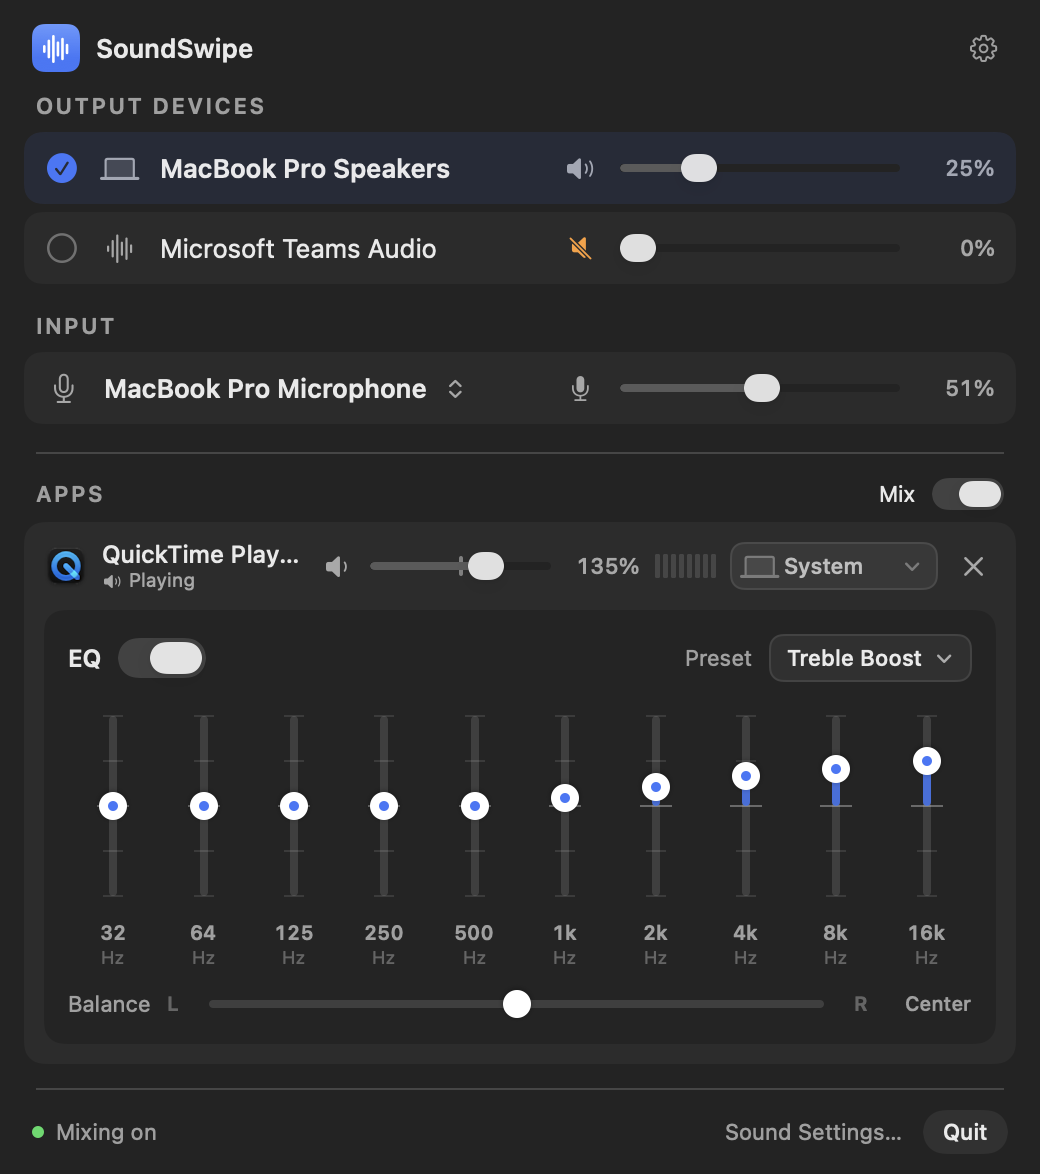
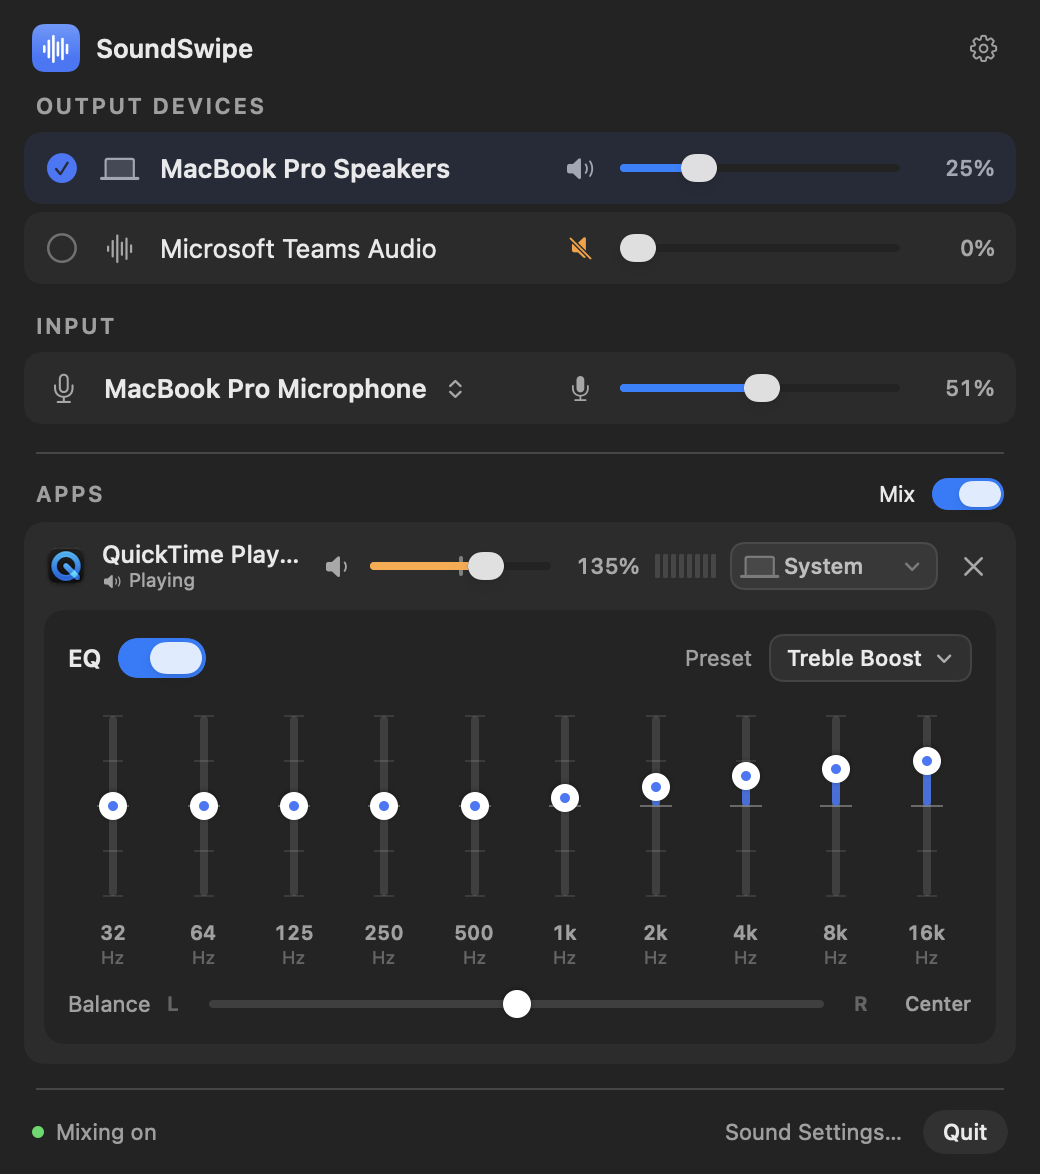
Split EQ and balance slider views for older Swift compilers

diff --git a/Sources/SoundSwipe/UI/PanelView.swift b/Sources/SoundSwipe/UI/PanelView.swift
@@ -378,72 +378,95 @@ private struct DeviceIcon: View {
     }
 }
 
+/// Positions along a slider track; kept separate so view bodies stay simple to type-check.
+private struct TrackGeometry {
+    static let thumb: CGFloat = 14
+    let length: CGFloat
+    let fraction: CGFloat
+    /// Thumb center along the track axis, from the start edge.
+    var position: CGFloat { Self.thumb / 2 + (length - Self.thumb) * fraction }
+    var center: CGFloat { length / 2 }
+    func fraction(at location: CGFloat) -> CGFloat { min(1, max(0, (location - Self.thumb / 2) / (length - Self.thumb))) }
+}
+
+private struct SliderThumb: View {
+    var dot = false
+    var body: some View {
+        Circle().fill(Color.white).shadow(color: Color.black.opacity(0.35), radius: 1.5, y: 0.5)
+            .overlay(Circle().fill(Theme.accent).frame(width: dot ? 5 : 0, height: dot ? 5 : 0))
+            .frame(width: TrackGeometry.thumb, height: TrackGeometry.thumb)
+    }
+}
+
 /// A graphic-EQ fader: drag or use VoiceOver adjust actions; the center line marks 0 dB.
 private struct VerticalSlider: View {
     @Binding var value: Float
     let range: ClosedRange<Float>
     let label: String
+    private var fraction: CGFloat { CGFloat((value - range.lowerBound) / (range.upperBound - range.lowerBound)) }
+
     var body: some View {
-        GeometryReader { geometry in
-            let height = geometry.size.height, thumb: CGFloat = 14, midX = geometry.size.width / 2
-            let fraction = CGFloat((value - range.lowerBound) / (range.upperBound - range.lowerBound))
-            let y = thumb / 2 + (height - thumb) * (1 - fraction)
-            ZStack {
-                ForEach(0..<5) { tick in
-                    Rectangle().fill(Color.primary.opacity(tick == 2 ? 0.35 : 0.12))
-                        .frame(width: tick == 2 ? 16 : 10, height: 1)
-                        .position(x: midX, y: thumb / 2 + (height - thumb) * CGFloat(tick) / 4)
-                }
-                Capsule().fill(Color.primary.opacity(0.14)).frame(width: 4, height: height - thumb).position(x: midX, y: height / 2)
-                Capsule().fill(Theme.accent.opacity(0.85))
-                    .frame(width: 4, height: abs(y - height / 2)).position(x: midX, y: (y + height / 2) / 2)
-                Circle().fill(.white).shadow(color: .black.opacity(0.35), radius: 1.5, y: 0.5)
-                    .overlay(Circle().fill(Theme.accent).frame(width: 5, height: 5))
-                    .frame(width: thumb, height: thumb).position(x: midX, y: y)
-            }
-            .contentShape(Rectangle())
-            .gesture(DragGesture(minimumDistance: 0).onChanged { drag in
-                let fraction = Float(1 - (drag.location.y - thumb / 2) / (height - thumb))
-                value = min(range.upperBound, max(range.lowerBound, range.lowerBound + fraction * (range.upperBound - range.lowerBound)))
-            })
-        }
-        .frame(width: 30)
-        .help(String(format: "%+.1f dB", value))
-        .accessibilityElement()
-        .accessibilityLabel(label)
-        .accessibilityValue(String(format: "%.1f decibels", value))
-        .accessibilityAdjustableAction { direction in
-            let step: Float = direction == .increment ? 1 : -1
-            value = min(range.upperBound, max(range.lowerBound, value + step))
-        }
+        GeometryReader { geometry in fader(size: geometry.size) }
+            .frame(width: 30)
+            .help(String(format: "%+.1f dB", value))
+            .accessibilityElement()
+            .accessibilityLabel(label)
+            .accessibilityValue(String(format: "%.1f decibels", value))
+            .accessibilityAdjustableAction { direction in set(value + (direction == .increment ? 1 : -1)) }
     }
+    private func fader(size: CGSize) -> some View {
+        // Track coordinates run top to bottom; the value runs bottom to top.
+        let track = TrackGeometry(length: size.height, fraction: 1 - fraction)
+        let midX: CGFloat = size.width / 2
+        let fillLength: CGFloat = abs(track.position - track.center)
+        let fillMid: CGFloat = (track.position + track.center) / 2
+        return ZStack {
+            ForEach(0..<5, id: \.self) { tick in tickMark(tick, track: track, x: midX) }
+            Capsule().fill(Color.primary.opacity(0.14)).frame(width: 4, height: size.height - TrackGeometry.thumb).position(x: midX, y: track.center)
+            Capsule().fill(Theme.accent.opacity(0.85)).frame(width: 4, height: fillLength).position(x: midX, y: fillMid)
+            SliderThumb(dot: true).position(x: midX, y: track.position)
+        }
+        .contentShape(Rectangle())
+        .gesture(DragGesture(minimumDistance: 0).onChanged { drag in
+            let position = Float(1 - track.fraction(at: drag.location.y))
+            set(range.lowerBound + position * (range.upperBound - range.lowerBound))
+        })
+    }
+    private func tickMark(_ tick: Int, track: TrackGeometry, x: CGFloat) -> some View {
+        let isCenter = tick == 2
+        let y: CGFloat = TrackGeometry.thumb / 2 + (track.length - TrackGeometry.thumb) * CGFloat(tick) / 4
+        return Rectangle().fill(Color.primary.opacity(isCenter ? 0.35 : 0.12)).frame(width: isCenter ? 16 : 10, height: 1).position(x: x, y: y)
+    }
+    private func set(_ newValue: Float) { value = min(range.upperBound, max(range.lowerBound, newValue)) }
 }
 
-/// Left/right balance that fills outward from the center.
+/// Left/right balance that fills outward from the center; double-click to center.
 private struct BalanceSlider: View {
     @Binding var value: Float
+
     var body: some View {
-        GeometryReader { geometry in
-            let width = geometry.size.width, thumb: CGFloat = 14, midY = geometry.size.height / 2
-            let x = thumb / 2 + (width - thumb) * CGFloat((value + 1) / 2)
-            ZStack {
-                Capsule().fill(Color.primary.opacity(0.14)).frame(width: width - thumb, height: 4).position(x: width / 2, y: midY)
-                Capsule().fill(Theme.accent.opacity(0.85)).frame(width: abs(x - width / 2), height: 4).position(x: (x + width / 2) / 2, y: midY)
-                Rectangle().fill(Color.primary.opacity(0.4)).frame(width: 1.5, height: 10).position(x: width / 2, y: midY)
-                Circle().fill(.white).shadow(color: .black.opacity(0.35), radius: 1.5, y: 0.5)
-                    .frame(width: thumb, height: thumb).position(x: x, y: midY)
-            }
-            .contentShape(Rectangle())
-            .gesture(DragGesture(minimumDistance: 0).onChanged { drag in
-                value = min(1, max(-1, Float((drag.location.x - thumb / 2) / (width - thumb)) * 2 - 1))
-            })
-            .onTapGesture(count: 2) { value = 0 }
-        }
-        .accessibilityElement()
-        .accessibilityLabel("Balance")
-        .accessibilityValue(value == 0 ? "Center" : "\(Int(abs(value) * 100)) percent \(value < 0 ? "left" : "right")")
-        .accessibilityAdjustableAction { direction in value = min(1, max(-1, value + (direction == .increment ? 0.1 : -0.1))) }
+        GeometryReader { geometry in bar(size: geometry.size) }
+            .accessibilityElement()
+            .accessibilityLabel("Balance")
+            .accessibilityValue(value == 0 ? "Center" : "\(Int(abs(value) * 100)) percent \(value < 0 ? "left" : "right")")
+            .accessibilityAdjustableAction { direction in set(value + (direction == .increment ? 0.1 : -0.1)) }
     }
+    private func bar(size: CGSize) -> some View {
+        let track = TrackGeometry(length: size.width, fraction: CGFloat((value + 1) / 2))
+        let midY: CGFloat = size.height / 2
+        let fillLength: CGFloat = abs(track.position - track.center)
+        let fillMid: CGFloat = (track.position + track.center) / 2
+        return ZStack {
+            Capsule().fill(Color.primary.opacity(0.14)).frame(width: size.width - TrackGeometry.thumb, height: 4).position(x: track.center, y: midY)
+            Capsule().fill(Theme.accent.opacity(0.85)).frame(width: fillLength, height: 4).position(x: fillMid, y: midY)
+            Rectangle().fill(Color.primary.opacity(0.4)).frame(width: 1.5, height: 10).position(x: track.center, y: midY)
+            SliderThumb().position(x: track.position, y: midY)
+        }
+        .contentShape(Rectangle())
+        .gesture(DragGesture(minimumDistance: 0).onChanged { drag in set(Float(track.fraction(at: drag.location.x)) * 2 - 1) })
+        .onTapGesture(count: 2) { value = 0 }
+    }
+    private func set(_ newValue: Float) { value = min(1, max(-1, newValue)) }
 }
 
 /// Post-processing peak as 8 LED segments on a -60…0 dB scale. Observes only the meter model, so updates stay local.
